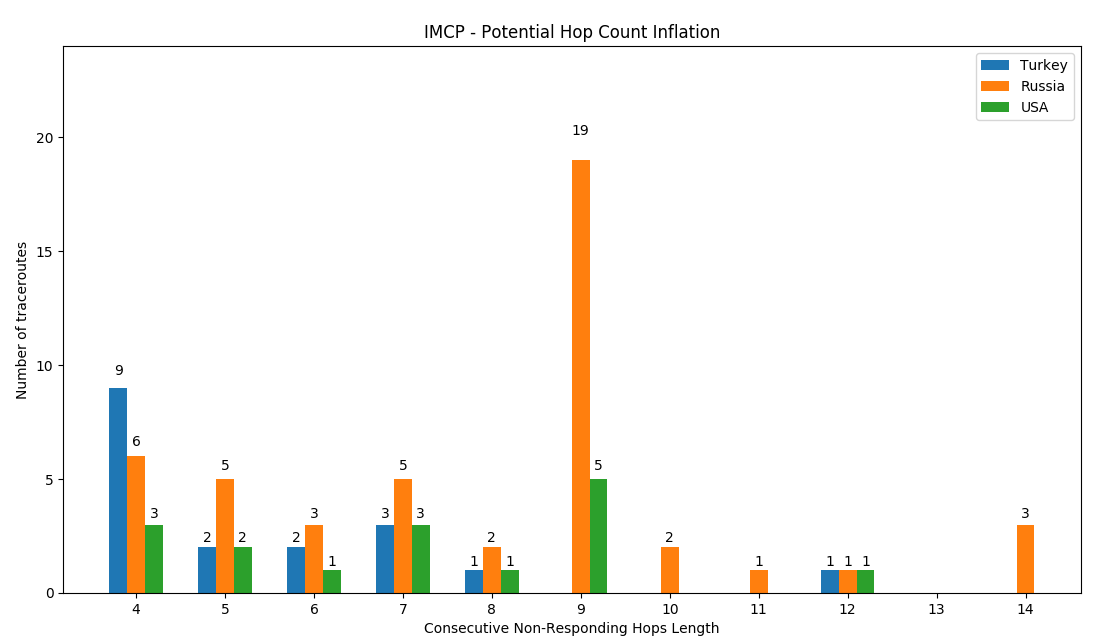
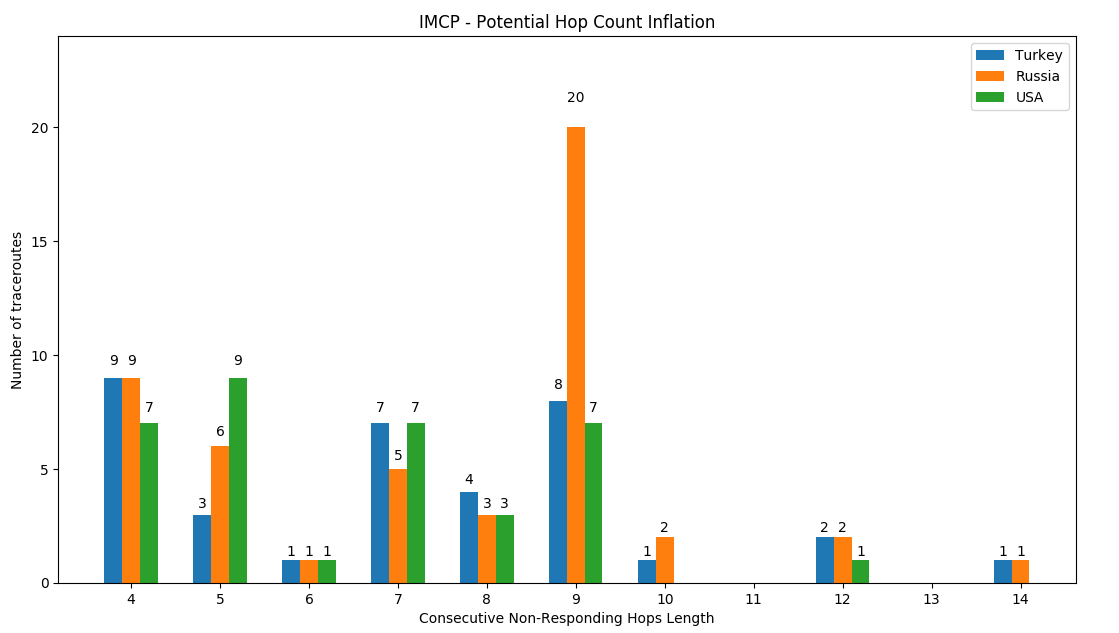
path inflation update

diff --git a/paper_latex/methodology.tex b/paper_latex/methodology.tex
@@ -221,19 +221,19 @@ While analyzing the IPs reachable from one or two vantage points, first major ob
 \begin{figure*}[!h]
 \centering
   \includegraphics[width=\linewidth]{figures/missing-hops-cdf.png}
-  \caption{Distribution of path length inflation at \textit{n} non-responding hops for 504 common webservers across all vantage points. Following is the breakdown of number of webservers for each vantage point:}
+  \caption{Distribution of path length inflation at \textit{n} non-responding hops for 564 common webservers across all vantage points. Following is the breakdown of number of webservers for each vantage point:}
   \label{fig:inflated-path-cdf}
   
-  US = 16\\
-  Turkey = 18\\
-  Russia = 47\\
+  US = 35\\
+  Turkey = 36\\
+  Russia = 49\\
   
 \end{figure*}
 
 \begin{figure*}[!h]
 \centering
   \includegraphics[width=\linewidth]{figures/missing-hops-bar.png}
-  \caption{Bar plot of path length inflation in ICMP traceroutes for 504 common webservers across all vantage points. The x-axis represents the number of consecutive non-responding hops \textit{n} and the y-axis shows the frequency of ICMP-traceroutes which have those \textit{n} length non-responding hops.}
+  \caption{Bar plot of path length inflation in ICMP traceroutes for 564 common webservers across all vantage points. The x-axis represents the number of consecutive non-responding hops \textit{n} and the y-axis shows the frequency of ICMP-traceroutes which have those \textit{n} length non-responding hops.}
   \label{fig:inflated-path-bar}
 \end{figure*}
 
